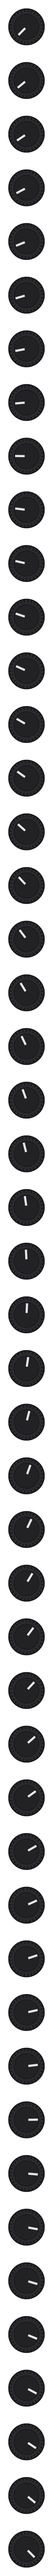
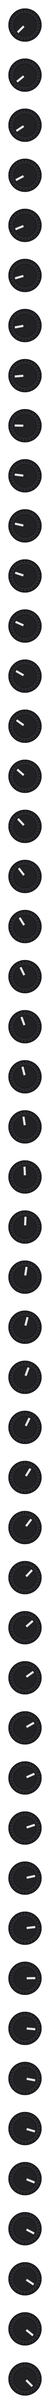
Strat middle tone knob level with volume; tidy Rickenbacker knobs and toggle
Claude-Session: https://claude.ai/code/session_01HQLEn6sNaWi74h2uXV5Vg7

diff --git a/Source/ui/GuitarScene.cpp b/Source/ui/GuitarScene.cpp
@@ -148,13 +148,13 @@ std::map<std::string, GuitarScene> buildScenes()
         GuitarScene s;
         s.code = "RIC";
         s.pickups = { { { 301, 322, 54, 132 }, 0 }, { { 431, 322, 54, 132 }, 1 } };
-        s.knobs = { { 212, 517, 18, KnobKind::Volume, 1 },
-                    { 267, 517, 18, KnobKind::Volume, 0 },
-                    { 210, 571, 18, KnobKind::Tone, 1 },
-                    { 267, 573, 18, KnobKind::Tone, 0 } };
+        s.knobs = { { 215, 512, 16, KnobKind::Volume, 1 },
+                    { 267, 512, 16, KnobKind::Volume, 0 },
+                    { 215, 564, 16, KnobKind::Tone, 1 },
+                    { 267, 564, 16, KnobKind::Tone, 0 } };
         auto& v = s.selector;
         v.style = LeverStyle::Toggle;
-        v.pivot = { 306, 546 };
+        v.pivot = { 362, 510 };
         v.direction = { 0, 1 };
         v.tiltDeg = 38;
         v.length = 17;
@@ -173,7 +173,7 @@ std::map<std::string, GuitarScene> buildScenes()
         s.code = "STR";
         s.pickups = { { { 285, 336, 40, 97 }, 0 }, { { 367, 336, 30, 97 }, 1 }, { { 448, 336, 28, 97 }, 2 } };
         s.knobs = { { 290, 494, 16, KnobKind::Volume, 0 },
-                    { 252, 533, 16, KnobKind::Tone, 0 },
+                    { 248, 494, 16, KnobKind::Tone, 0 },
                     { 220, 562, 16, KnobKind::Tone, 1 } };  // TONE MIDDLE
         auto& v = s.selector;
         v.style = LeverStyle::Blade;
